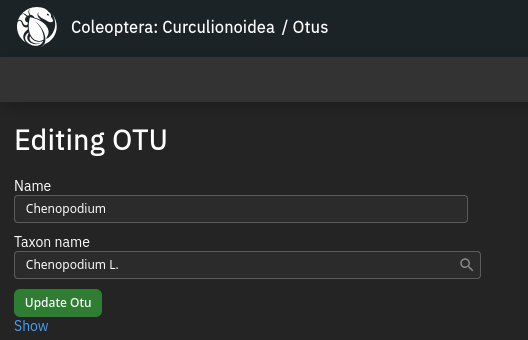
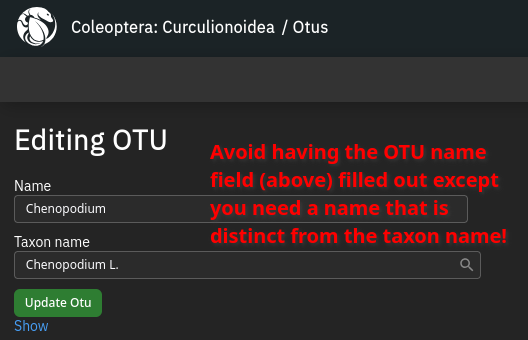
update

Changed region(s): [[0.3939, 0.4118, 0.9394, 0.5588], [0.3939, 0.6765, 0.9697, 0.7353], [0.3939, 0.5882, 0.8485, 0.6471]]

diff --git a/docs/TutorialCuratePlants.md b/docs/TutorialCuratePlants.md
@@ -30,7 +30,21 @@ If you import something like *Populus tremula*, its parent names like genus *Pop
 </video>
 
 ## Why do I need to remove the OTU name?
-![Soft Validation in TaxonWorks](assets/images/TutorialCuratePlants/ChenopodiumWrong.png){ align=right }
+If both the "Name" field and the "Taxon name" field are filled out for an OTU, this will exclude it from the Search Bar results on TaxonPages.  
+![Don't do it like this!](assets/images/TutorialCuratePlants/ChenopodiumWrong.png)
+![Do it like this!](assets/images/TutorialCuratePlants/ChenopodiumRight.png)
+
+
+
+### When do I use an OTU name?
+Sometimes you may need a name for a taxon that is not its scientific name. Think "Chenopodium sp." or "Chenopodium spp." or "Thin-leaved species of Salix", all of which could be useful for biological associations.  
+You can create as many OTU as you like for the same taxon name. Just make sure only one of them has the name field empty.  
+Avoid OTU without taxon name or taxon name without OTU, those do make problems!
+![Do it like this!](assets/images/TutorialCuratePlants/ChenopodiumSP.png)
+![Do it like this!](assets/images/TutorialCuratePlants/OTUNames.png)
+
+
+
 
 
 
